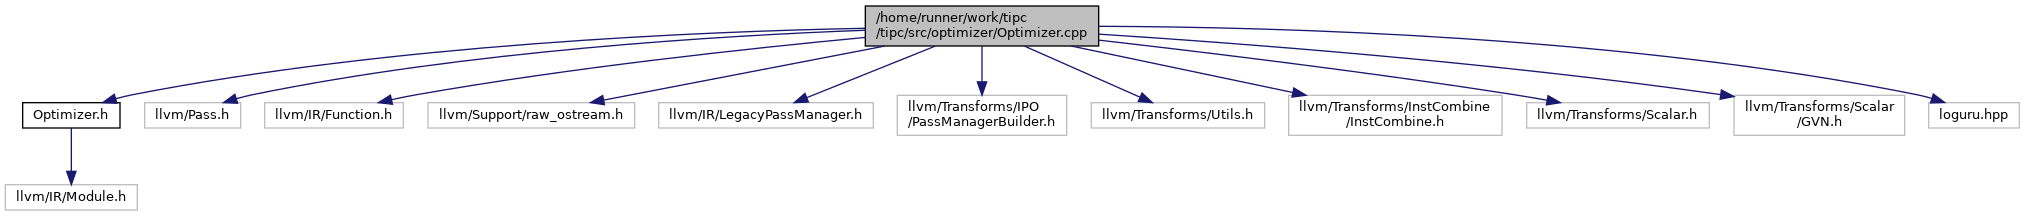
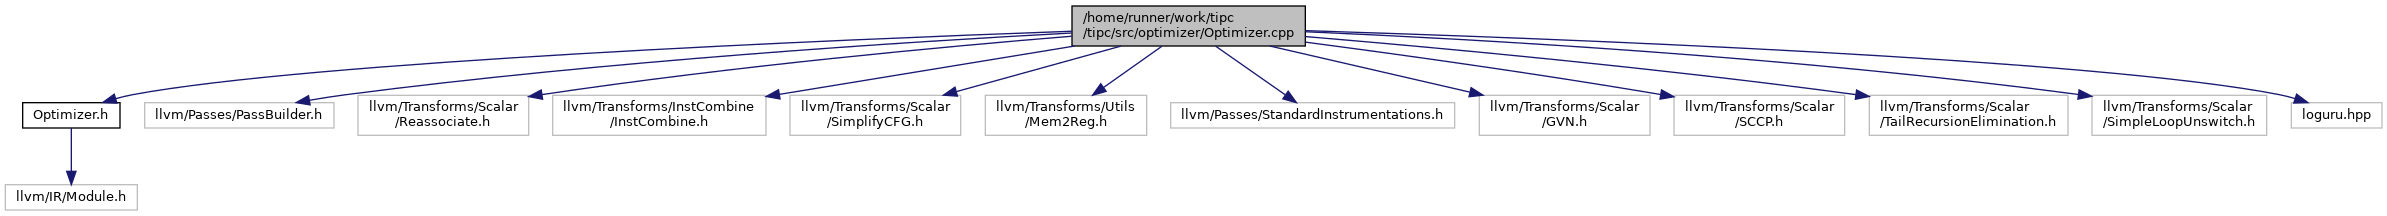
Deploying to gh-pages from @ matthewbdwyer/tipc@964359ac5a126a81dd6694778d6b5092e66de812 🚀

diff --git a/Optimizer_8cpp.html b/Optimizer_8cpp.html
@@ -71,33 +71,35 @@ $(function() {
 </div><!--header-->
 <div class="contents">
 <div class="textblock"><code>#include &quot;<a class="el" href="Optimizer_8h_source.html">Optimizer.h</a>&quot;</code><br />
-<code>#include &quot;llvm/Pass.h&quot;</code><br />
-<code>#include &quot;llvm/IR/Function.h&quot;</code><br />
-<code>#include &quot;llvm/Support/raw_ostream.h&quot;</code><br />
-<code>#include &quot;llvm/IR/LegacyPassManager.h&quot;</code><br />
-<code>#include &quot;llvm/Transforms/IPO/PassManagerBuilder.h&quot;</code><br />
-<code>#include &quot;llvm/Transforms/Utils.h&quot;</code><br />
+<code>#include &quot;llvm/Passes/PassBuilder.h&quot;</code><br />
+<code>#include &quot;llvm/Transforms/Scalar/Reassociate.h&quot;</code><br />
 <code>#include &quot;llvm/Transforms/InstCombine/InstCombine.h&quot;</code><br />
-<code>#include &quot;llvm/Transforms/Scalar.h&quot;</code><br />
+<code>#include &quot;llvm/Transforms/Scalar/SimplifyCFG.h&quot;</code><br />
+<code>#include &quot;llvm/Transforms/Utils/Mem2Reg.h&quot;</code><br />
+<code>#include &quot;llvm/Passes/StandardInstrumentations.h&quot;</code><br />
 <code>#include &quot;llvm/Transforms/Scalar/GVN.h&quot;</code><br />
+<code>#include &quot;llvm/Transforms/Scalar/SCCP.h&quot;</code><br />
+<code>#include &quot;llvm/Transforms/Scalar/TailRecursionElimination.h&quot;</code><br />
+<code>#include &quot;llvm/Transforms/Scalar/SimpleLoopUnswitch.h&quot;</code><br />
 <code>#include &quot;loguru.hpp&quot;</code><br />
 </div><div class="textblock"><div class="dynheader">
 Include dependency graph for Optimizer.cpp:</div>
 <div class="dyncontent">
 <div class="center"><img src="Optimizer_8cpp__incl.png" border="0" usemap="#a_2home_2runner_2work_2tipc_2tipc_2src_2optimizer_2Optimizer_8cpp" alt=""/></div>
 <map name="a_2home_2runner_2work_2tipc_2tipc_2src_2optimizer_2Optimizer_8cpp" id="a_2home_2runner_2work_2tipc_2tipc_2src_2optimizer_2Optimizer_8cpp">
-<area shape="rect" title=" " alt="" coords="865,5,1099,47"/>
+<area shape="rect" title=" " alt="" coords="1072,5,1305,47"/>
 <area shape="rect" href="Optimizer_8h.html" title=" " alt="" coords="23,102,120,129"/>
-<area shape="rect" title=" " alt="" coords="145,102,241,129"/>
-<area shape="rect" title=" " alt="" coords="265,102,403,129"/>
-<area shape="rect" title=" " alt="" coords="428,102,635,129"/>
-<area shape="rect" title=" " alt="" coords="659,102,873,129"/>
-<area shape="rect" title=" " alt="" coords="897,95,1067,136"/>
-<area shape="rect" title=" " alt="" coords="1091,102,1265,129"/>
-<area shape="rect" title=" " alt="" coords="1289,95,1502,136"/>
-<area shape="rect" title=" " alt="" coords="1527,102,1709,129"/>
-<area shape="rect" title=" " alt="" coords="1734,95,1905,136"/>
-<area shape="rect" title=" " alt="" coords="1929,102,2019,129"/>
+<area shape="rect" title=" " alt="" coords="145,102,334,129"/>
+<area shape="rect" title=" " alt="" coords="358,95,529,136"/>
+<area shape="rect" title=" " alt="" coords="553,95,766,136"/>
+<area shape="rect" title=" " alt="" coords="790,95,961,136"/>
+<area shape="rect" title=" " alt="" coords="985,95,1147,136"/>
+<area shape="rect" title=" " alt="" coords="1171,102,1455,129"/>
+<area shape="rect" title=" " alt="" coords="1479,95,1650,136"/>
+<area shape="rect" title=" " alt="" coords="1674,95,1845,136"/>
+<area shape="rect" title=" " alt="" coords="1869,95,2068,136"/>
+<area shape="rect" title=" " alt="" coords="2092,95,2267,136"/>
+<area shape="rect" title=" " alt="" coords="2291,102,2382,129"/>
 <area shape="rect" title=" " alt="" coords="5,184,137,211"/>
 </map>
 </div>

diff --git a/Optimizer_8h_source.html b/Optimizer_8h_source.html
@@ -80,7 +80,7 @@ $(function() {
 <div class="line"><a name="l00016"></a><span class="lineno">   16</span>&#160;  <span class="keyword">static</span> <span class="keywordtype">void</span> <a class="code" href="classOptimizer.html#a61c9299b1d71179302ce2303ffe6bb29">optimize</a>(llvm::Module* theModule);</div>
 <div class="line"><a name="l00017"></a><span class="lineno">   17</span>&#160;};</div>
 <div class="ttc" id="aclassOptimizer_html"><div class="ttname"><a href="classOptimizer.html">Optimizer</a></div><div class="ttdoc">routines to optimize generated code.</div><div class="ttdef"><b>Definition:</b> Optimizer.h:8</div></div>
-<div class="ttc" id="aclassOptimizer_html_a61c9299b1d71179302ce2303ffe6bb29"><div class="ttname"><a href="classOptimizer.html#a61c9299b1d71179302ce2303ffe6bb29">Optimizer::optimize</a></div><div class="ttdeci">static void optimize(llvm::Module *theModule)</div><div class="ttdoc">optimize LLVM module.</div><div class="ttdef"><b>Definition:</b> Optimizer.cpp:18</div></div>
+<div class="ttc" id="aclassOptimizer_html_a61c9299b1d71179302ce2303ffe6bb29"><div class="ttname"><a href="classOptimizer.html#a61c9299b1d71179302ce2303ffe6bb29">Optimizer::optimize</a></div><div class="ttdeci">static void optimize(llvm::Module *theModule)</div><div class="ttdoc">optimize LLVM module.</div><div class="ttdef"><b>Definition:</b> Optimizer.cpp:36</div></div>
 </div><!-- fragment --></div><!-- contents -->
 <!-- start footer part -->
 <hr class="footer"/><address class="footer"><small>
